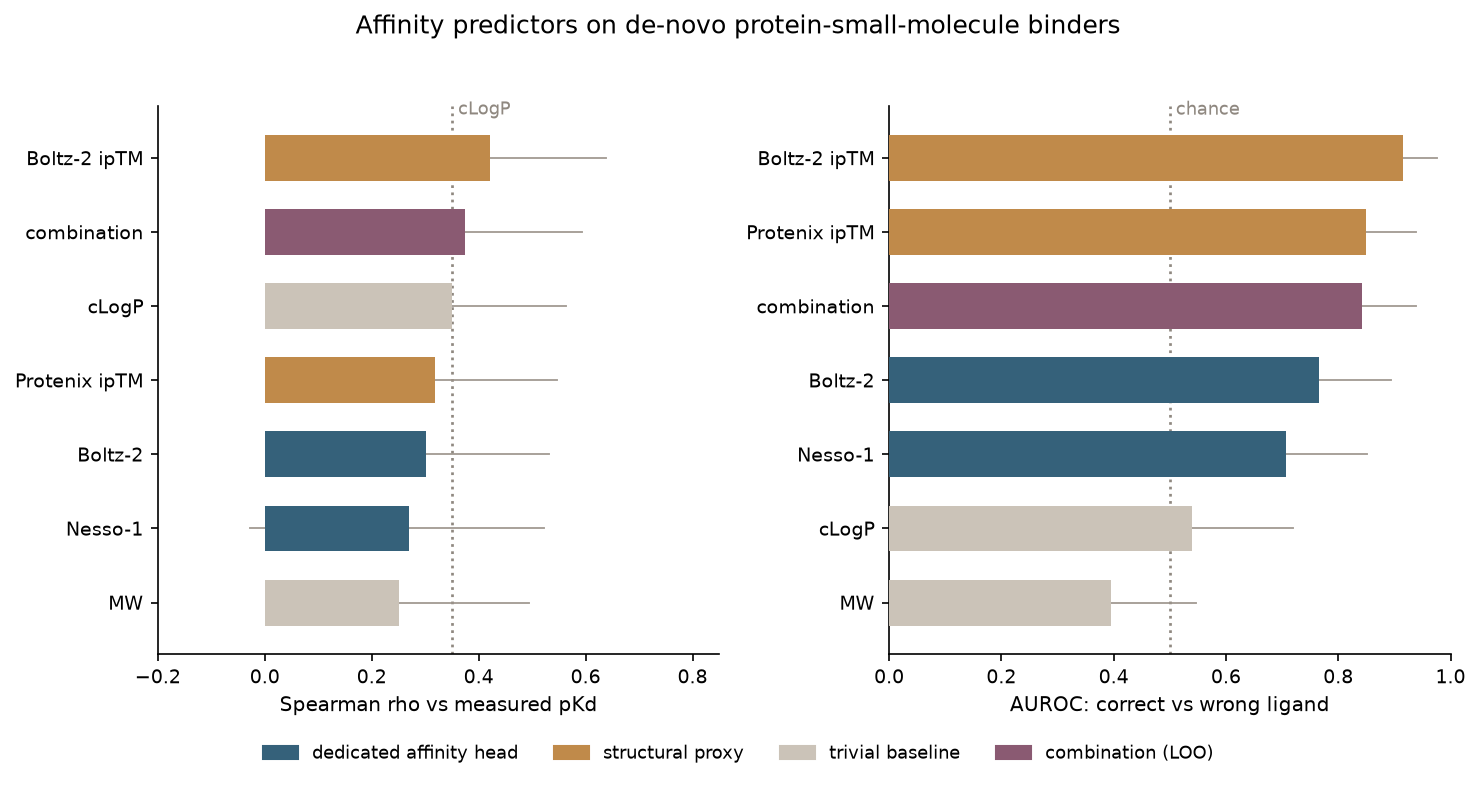
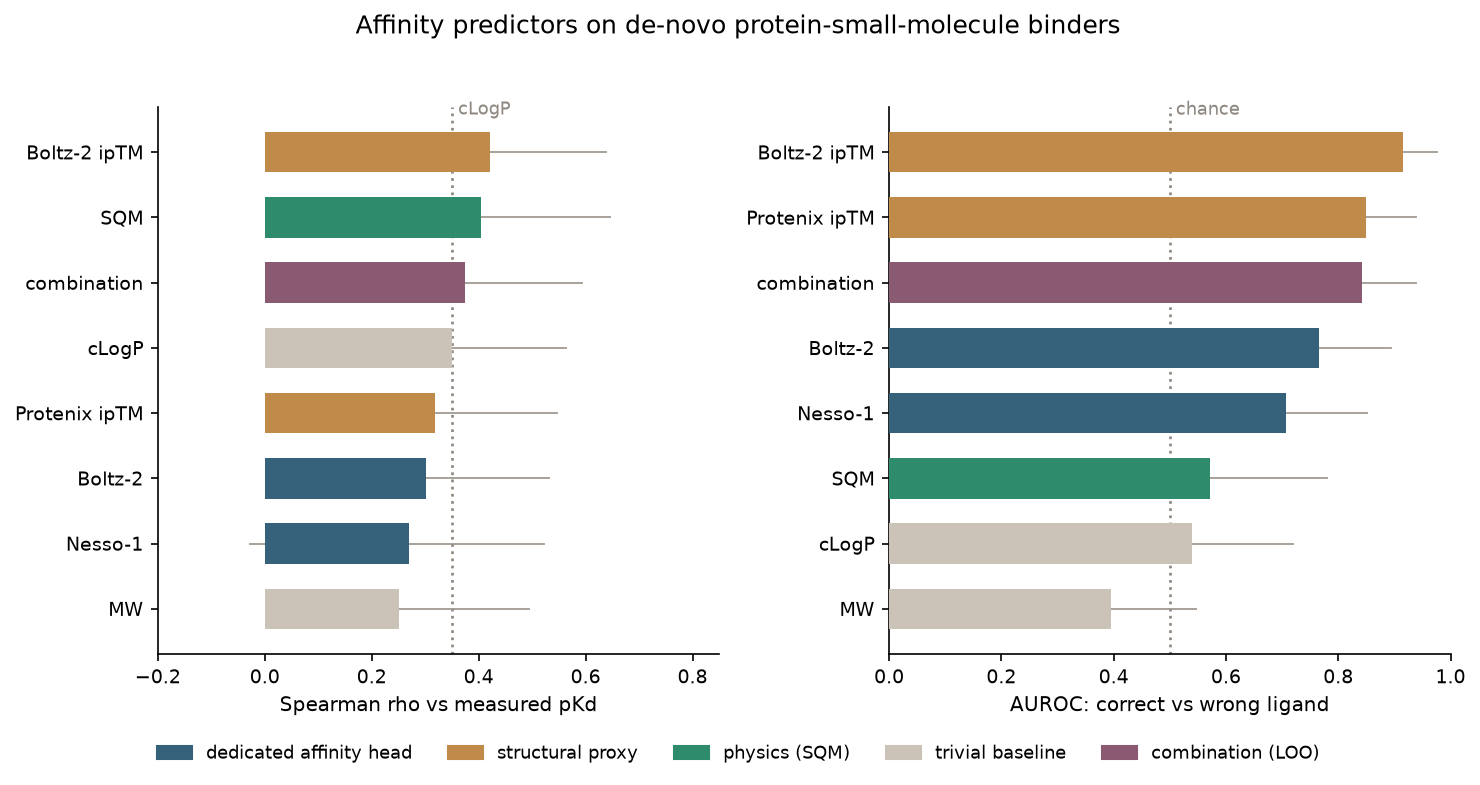
Compute Rowan physics/docking rescoring for all 61 systems; update figures
SQM (PM6-D3H4X/COSMO2), GNINA, and AEV-PLIG scored over the Protenix-v2 poses via the Rowan
binding-affinity workflow. Headline: SQM, a physics method with no training on binding data,
ranks pKd at +0.40 (level with Boltz-2 ipTM +0.42, above cLogP +0.35) -- the clearest sign the
natural->de-novo wall is a learning artifact. The learned rescorers GNINA (+0.35) and AEV-PLIG
(+0.32) only match cLogP; none of the three beat chance on right-vs-wrong-ligand specificity.

GNINA/AEV-PLIG outputs are log10(Kd) (lower=tighter), flagged in score.py LOWER_BETTER. SQM and
AEV-PLIG cannot score the 4 silicon-rhodamine dye systems (COSMO2 has no Si params; AEV-PLIG
rejects Si poses), left blank; GNINA covers all 61. Figures regenerated with physics / docking
categories. run_rowan.py: submit-all-then-collect for concurrency, --only for targeted retries,
merge-safe write_pred, protein-prep before SQM.

diff --git a/scripts/run_rowan.py b/scripts/run_rowan.py
@@ -15,7 +15,7 @@ source is Protenix-v2 (the benchmark's strongest co-folder; best-ranked of its 5
   python scripts/run_rowan.py
 
   # 3. submit (needs ROWAN_API_KEY): one workflow per (system, method)
-  ROWAN_API_KEY=rowan-sk-... python scripts/run_rowan.py --submit --methods sqm,gnina,aevplig \
+  ROWAN_API_KEY=<your-rowan-key> python scripts/run_rowan.py --submit --methods sqm,gnina,aevplig \
       --max-credits 200
 
 Writes predictions/rowan-{sqm,gnina,aevplig}_predictions.csv. Orientation: higher = tighter.
@@ -136,12 +136,24 @@ def build_poses(mode):
 
 
 def write_pred(method_col, values):
-    with open(PRED / f"{method_col}_predictions.csv", "w", newline="") as f:
+    """Write method,id,predicted_affinity for all systems. Systems scored this run (in `values`)
+    get the new value; any others keep whatever is already on disk, so a targeted --only/--limit
+    retry does not blank out the rest of the column."""
+    path = PRED / f"{method_col}_predictions.csv"
+    existing = {}
+    if path.exists():
+        existing = {r["id"]: r["predicted_affinity"]
+                    for r in csv.DictReader(path.read_text().splitlines())}
+    with open(path, "w", newline="") as f:
         w = csv.writer(f)
         w.writerow(["method", "id", "predicted_affinity"])
         for r in refs():
-            v = values.get(r["id"])
-            w.writerow([method_col, r["id"], "" if v is None else v])
+            if r["id"] in values:
+                v = values[r["id"]]
+                cell = "" if v is None else v
+            else:
+                cell = existing.get(r["id"], "")
+            w.writerow([method_col, r["id"], cell])
     print(f"WROTE {method_col}_predictions.csv", flush=True)
 
 
@@ -156,46 +168,68 @@ def submit(methods, ok, max_credits, draft=False):
         print(f"  (folder grouping unavailable: {type(e).__name__}; submitting to account root)")
         folder = None
 
-    def prepared_protein(protein_uuid, sid):
-        # SQM (MOZYME) needs a protonated, closed-shell protein; the co-folded PDB has no H, so
-        # geometry-based charge inference yields odd-electron pockets. Protonate at pH 7.4 first.
-        prep = rowan.submit_protein_preparation_workflow(
-            protein=protein_uuid, protonation_method="openmm", pH=7.4,
-            name=f"prep {sid}", folder=folder, max_credits=max_credits)
-        return prep.result().prepared_protein_uuid
-
+    # Workflows run concurrently server-side, so submit them all up front and collect afterwards
+    # rather than blocking on each result in turn (183 affinity + 61 prep workflows would be hours
+    # sequentially, ~an hour batched).
     for key in methods:
         col, _, sqm = METHODS[key]
-        vals = {}
-        for row in ok:
-            sid, pp, ls = row
+
+        # Stage 1 (SQM only): submit every protein-prep so they run in parallel. SQM (MOZYME) needs
+        # a protonated closed-shell protein; the co-folded PDB has no H, so geometry-based charge
+        # inference yields odd-electron pockets. Protonate at pH 7.4 first.
+        preps = {}
+        if sqm and not draft:
+            for sid, pp, _ in ok:
+                try:
+                    protein = rowan.upload_protein(sid, str(pp))
+                    preps[sid] = rowan.submit_protein_preparation_workflow(
+                        protein=protein.uuid, protonation_method="openmm", pH=7.4,
+                        name=f"prep {sid}", folder=folder, max_credits=max_credits)
+                except Exception as e:  # noqa: BLE001 - surface, keep the batch going
+                    preps[sid] = e
+
+        # Stage 2: submit every binding-affinity workflow (all run in parallel).
+        jobs = []  # (sid, wf | None, err | None)
+        for sid, pp, ls in ok:
             try:
-                protein = rowan.upload_protein(sid, str(pp))
-                target = protein.uuid
-                if sqm and not draft:              # SQM only; ML scorers use the raw pose
-                    target = prepared_protein(protein.uuid, sid)
+                if sqm and not draft:
+                    prep = preps.get(sid)
+                    if isinstance(prep, Exception):
+                        raise prep
+                    target = prep.result().prepared_protein_uuid
+                else:
+                    target = rowan.upload_protein(sid, str(pp)).uuid
                 ligand = next(iter(rowan.load_named_ligands(str(ls)).values()))
                 wf = rowan.submit_binding_affinity_workflow(
-                    protein=target,
-                    ligand_structures=[ligand],
+                    protein=target, ligand_structures=[ligand],
                     binding_affinity_settings=settings[key](),
-                    name=f"benchmark {col} {sid}",
-                    folder=folder,
-                    max_credits=max_credits,
-                    is_draft=draft,
-                )
-                if draft:
-                    print(f"  DRAFT {col} {sid}: workflow {wf.uuid} created (not executed)", flush=True)
-                    continue
+                    name=f"benchmark {col} {sid}", folder=folder,
+                    max_credits=max_credits, is_draft=draft)
+                jobs.append((sid, wf, None))
+            except Exception as e:  # noqa: BLE001 - surface, keep the batch going
+                jobs.append((sid, None, f"{type(e).__name__}: {str(e)[:140]}"))
+
+        if draft:
+            for sid, wf, err in jobs:
+                print(f"  DRAFT {col} {sid}: {wf.uuid if wf else 'FAILED ' + err}", flush=True)
+            continue
+
+        # Stage 3: collect results (submitted together, so this drains as they finish).
+        vals = {}
+        for sid, wf, err in jobs:
+            if wf is None:
+                vals[sid] = None
+                print(f"  {col} {sid}: FAILED ({err})", flush=True)
+                continue
+            try:
                 score = wf.result().scores[0]
                 raw = None if score is None else score.binding_affinity
                 vals[sid] = None if raw is None else (-raw if sqm else raw)
                 print(f"  {col} {sid}: {raw}", flush=True)
-            except Exception as e:  # noqa: BLE001 - surface per-system failure, keep the batch going
+            except Exception as e:  # noqa: BLE001 - surface, keep the batch going
                 vals[sid] = None
                 print(f"  {col} {sid}: FAILED ({type(e).__name__}: {str(e)[:140]})", flush=True)
-        if not draft:
-            write_pred(col, vals)
+        write_pred(col, vals)
 
 
 def main():
@@ -206,6 +240,7 @@ def main():
     ap.add_argument("--submit", action="store_true", help="actually call the Rowan API (needs ROWAN_API_KEY)")
     ap.add_argument("--max-credits", type=int, default=None, help="hard credit cap per workflow")
     ap.add_argument("--limit", type=int, default=None, help="use only the first N systems (smoke test)")
+    ap.add_argument("--only", default=None, help="comma-separated system ids to run (targeted retry)")
     ap.add_argument("--draft", action="store_true",
                     help="with --submit: create is_draft workflows (validate the full path, no execution, no credits)")
     args = ap.parse_args()
@@ -215,6 +250,10 @@ def main():
     print(f"\n{args.poses} poses: {len(ok)} ready, {len(bad)} failed")
     for b in bad:
         print(f"  FAILED {b[0]}: {b[1]}")
+    if args.only:
+        want = {x.strip() for x in args.only.split(",") if x.strip()}
+        ok = [r for r in ok if r[0] in want]
+        print(f"--only: {len(ok)} system(s) {[r[0] for r in ok]}")
     if args.limit:
         ok = ok[:args.limit]
         print(f"--limit {args.limit}: using first {len(ok)} system(s) only")

diff --git a/scripts/make_figure.py b/scripts/make_figure.py
@@ -21,15 +21,19 @@ CAT = {"boltz-2": "aff", "boltz-2-pbind": "aff", "nesso-1": "aff", "nesso-1-pbin
        "protenix-iptm": "prox", "protenix-ligiptm": "prox", "protenix-gpde": "prox",
        "protenix-ranking": "prox", "protenix-pae-min": "prox", "protenix-pae-mean": "prox",
        "clogp": "base", "molecular-weight": "base", "combination": "combo",
-       "dtsfm-cosine": "seq"}
-COL = {"aff": "#35617a", "prox": "#c08a4a", "base": "#cbc3b8", "combo": "#8a5a72", "seq": "#7B4FA0"}
+       "dtsfm-cosine": "seq",
+       "rowan-sqm": "phys", "rowan-gnina": "dock", "rowan-aevplig": "dock"}
+COL = {"aff": "#35617a", "prox": "#c08a4a", "base": "#cbc3b8", "combo": "#8a5a72", "seq": "#7B4FA0",
+       "phys": "#2e8b6b", "dock": "#a0522d"}
 REF, WHISK = "#8f8880", "#9b938a"
 LABEL = {"aff": "dedicated affinity head", "prox": "structural proxy",
-         "base": "trivial baseline", "combo": "combination (LOO)", "seq": "sequence-native FM"}
-SELECT = ["boltz-2", "nesso-1", "boltz-2-iptm", "protenix-iptm", "clogp", "molecular-weight"]
+         "base": "trivial baseline", "combo": "combination (LOO)", "seq": "sequence-native FM",
+         "phys": "physics (SQM)", "dock": "docking / ML rescore"}
+SELECT = ["boltz-2", "nesso-1", "boltz-2-iptm", "protenix-iptm", "rowan-sqm", "clogp", "molecular-weight"]
 PRETTY = {"boltz-2": "Boltz-2", "nesso-1": "Nesso-1", "boltz-2-iptm": "Boltz-2 ipTM",
           "protenix-iptm": "Protenix ipTM", "clogp": "cLogP", "molecular-weight": "MW",
-          "dtsfm-cosine": "dtSFM"}
+          "dtsfm-cosine": "dtSFM",
+          "rowan-sqm": "SQM", "rowan-gnina": "GNINA", "rowan-aevplig": "AEV-PLIG"}
 
 
 def stats(rows, methods):
@@ -71,7 +75,7 @@ def render(reg, spec, out, height):
     bars(a, reg, clogp_rho, "cLogP", "Spearman rho vs measured pKd", (-0.2, 0.85))
     bars(b, spec, 0.5, "chance", "AUROC: correct vs wrong ligand", (0.0, 1.0))
     present = {d[4] for d in reg}
-    cats = [c for c in ("aff", "prox", "seq", "base", "combo") if c in present]
+    cats = [c for c in ("aff", "prox", "phys", "dock", "seq", "base", "combo") if c in present]
     handles = [plt.Rectangle((0, 0), 1, 1, color=COL[c]) for c in cats]
     fig.legend(handles, [LABEL[c] for c in cats], fontsize=8.5, loc="lower center",
                ncol=len(cats), frameon=False, bbox_to_anchor=(0.5, 0.0))

diff --git a/scripts/score.py b/scripts/score.py
@@ -14,7 +14,8 @@ from pathlib import Path
 
 ROOT = Path(__file__).resolve().parents[1]
 LOWER_BETTER = {"protenix-gpde", "boltz-2-pae-min", "boltz-2-pae-mean",
-                "protenix-pae-min", "protenix-pae-mean"}   # lower = tighter (flip for rho/AUROC)
+                "protenix-pae-min", "protenix-pae-mean",
+                "rowan-gnina", "rowan-aevplig"}   # log10(Kd): lower = tighter (flip for rho/AUROC)
 PK_METHODS = {"boltz-2", "nesso-1"}                 # predicted_affinity in pK units -> RMSE meaningful
 COMBO = ("boltz-2", "nesso-1", "protenix-ligiptm", "clogp")
 

diff --git a/README.md b/README.md
@@ -37,6 +37,10 @@ per model plus the baselines; the full leaderboard (all metrics) is in
   its featurization validates on in-distribution natural pairs (true-vs-shuffled AUROC 0.863; see
   `scripts/run_dtsfm.py`, which gates on that positive control before scoring). So neither a
   structural co-folder nor a sequence-native FM escapes the natural-to-de-novo distribution shift.
+- **A physics scorer matches the best co-folder.** Rowan's SQM (semi-empirical QM, with no training
+  on binding data) ranks pKd at +0.40, level with Boltz-2 ipTM and above cLogP; the learned rescorers
+  GNINA (+0.35) and AEV-PLIG (+0.32) only match cLogP. Details in
+  [Rowan physics / docking rescoring](#rowan-physics--docking-rescoring).
 
 | task | best single | cLogP | combination (LOO) |
 |---|---|---|---|
@@ -68,29 +72,37 @@ please cite the original work when using any result here.
 | `protenix-{iptm,ligiptm,gpde,ranking,pae-min,pae-mean}` | Protenix v2 (confidence + ranking) | co-folding | ByteDance AML 2025 |
 | `dtsfm-cosine` | dtSFM encoder cosine (drug-target specificity FM) | sequence-native FM | dtSFM-v3, BIIE ETH Zürich |
 | `clogp`, `molecular-weight` | Crippen cLogP, molecular weight | physicochemical baseline | RDKit |
-| `rowan-sqm`, `rowan-gnina`, `rowan-aevplig` *(in progress)* | SQM (PM6-D3H4X/COSMO2), GNINA, AEV-PLIG | physics / docking / ML rescoring | via Rowan |
+| `rowan-sqm`, `rowan-gnina`, `rowan-aevplig` | SQM (PM6-D3H4X/COSMO2), GNINA, AEV-PLIG | physics / docking / ML rescoring | via Rowan |
 
 De-novo designs and labels are from the papers cited per row (`source`, `source_url`) in
 `reference/system_reference.csv`.
 
-## Rowan physics / docking rescoring (in progress)
+## Rowan physics / docking rescoring
 
 The open question this split raises, *does any method actually track KD on de-novo binders, or does
-that only work on natural complexes?*, is being probed with [Rowan](https://docs.rowansci.com)'s
-binding-affinity workflow, which adds scorer families that are not co-folding heads:
-
-- **SQM**: semi-empirical QM (PM6-D3H4X geometry optimization, COSMO2 single-point in water) on a
-  truncated pocket. Physics-based, so not trained on natural protein-ligand data, and the most direct
-  test of whether the natural-to-de-novo shift is a *learning* artifact.
-- **GNINA** (CNN docking affinity) and **AEV-PLIG** (an ML interaction-graph scorer). Both are
-  trained on natural complexes (PDBbind-style), so a drop here would corroborate the same
-  out-of-distribution wall from a different modeling family.
-
-All three score a *bound pose*. The poses come from re-folding the 61 systems with Protenix v2 (the
-best-ranked of its 5 samples) and are fed to Rowan through the
+that only work on natural complexes?*, is probed with [Rowan](https://docs.rowansci.com)'s
+binding-affinity workflow over scorer families that are not co-folding heads. Each scores a bound
+pose (the best-ranked of Protenix v2's 5 samples per system), fed to Rowan through the
 [`rowan-python`](https://github.com/rowansci/rowan-python) SDK in its apo-protein + external-pose
-mode. Wiring lives in `scripts/run_rowan.py`. Results and figures will be added once the runs
-complete.
+mode; SQM additionally runs a protonation (protein-preparation) step first. Wiring is in
+`scripts/run_rowan.py`.
+
+- **Physics (SQM) reaches the top tier with no training on binding data.** PM6-D3H4X/COSMO2
+  single-point scoring tracks pKd at Spearman +0.40 [+0.10, +0.64], level with the best co-folding
+  metric (Boltz-2 ipTM +0.42) and above cLogP (+0.35). A physics method that never saw a binding
+  measurement, ranking de-novo affinity as well as the best learned co-folder, is the clearest sign
+  yet that the natural-to-de-novo wall is a *learning* artifact rather than a hard limit.
+- **The learned rescorers do not escape the wall.** GNINA (+0.35) and AEV-PLIG (+0.32), both trained
+  on natural complexes (PDBbind-style), land right at cLogP, the same place the co-folding affinity
+  heads sit.
+- **None of them help with specificity.** On telling the correct ligand from the wrong one, SQM
+  (0.57), GNINA (0.58), and AEV-PLIG (0.47) are all near chance, far below co-folder ipTM (0.91). The
+  physics signal is for ranking affinity among binders, not for rejecting decoys.
+
+Caveats: SQM's CI is wide at this n, and its truncated-pocket energies are noisy (cut salt bridges
+leave some pockets electrostatically incomplete). Neither SQM nor AEV-PLIG can score the four
+silicon-rhodamine dye systems (COSMO2 has no Si parameters; AEV-PLIG rejects the Si poses), so those
+cells are blank; GNINA scores all 61.
 
 ## Layout
 
